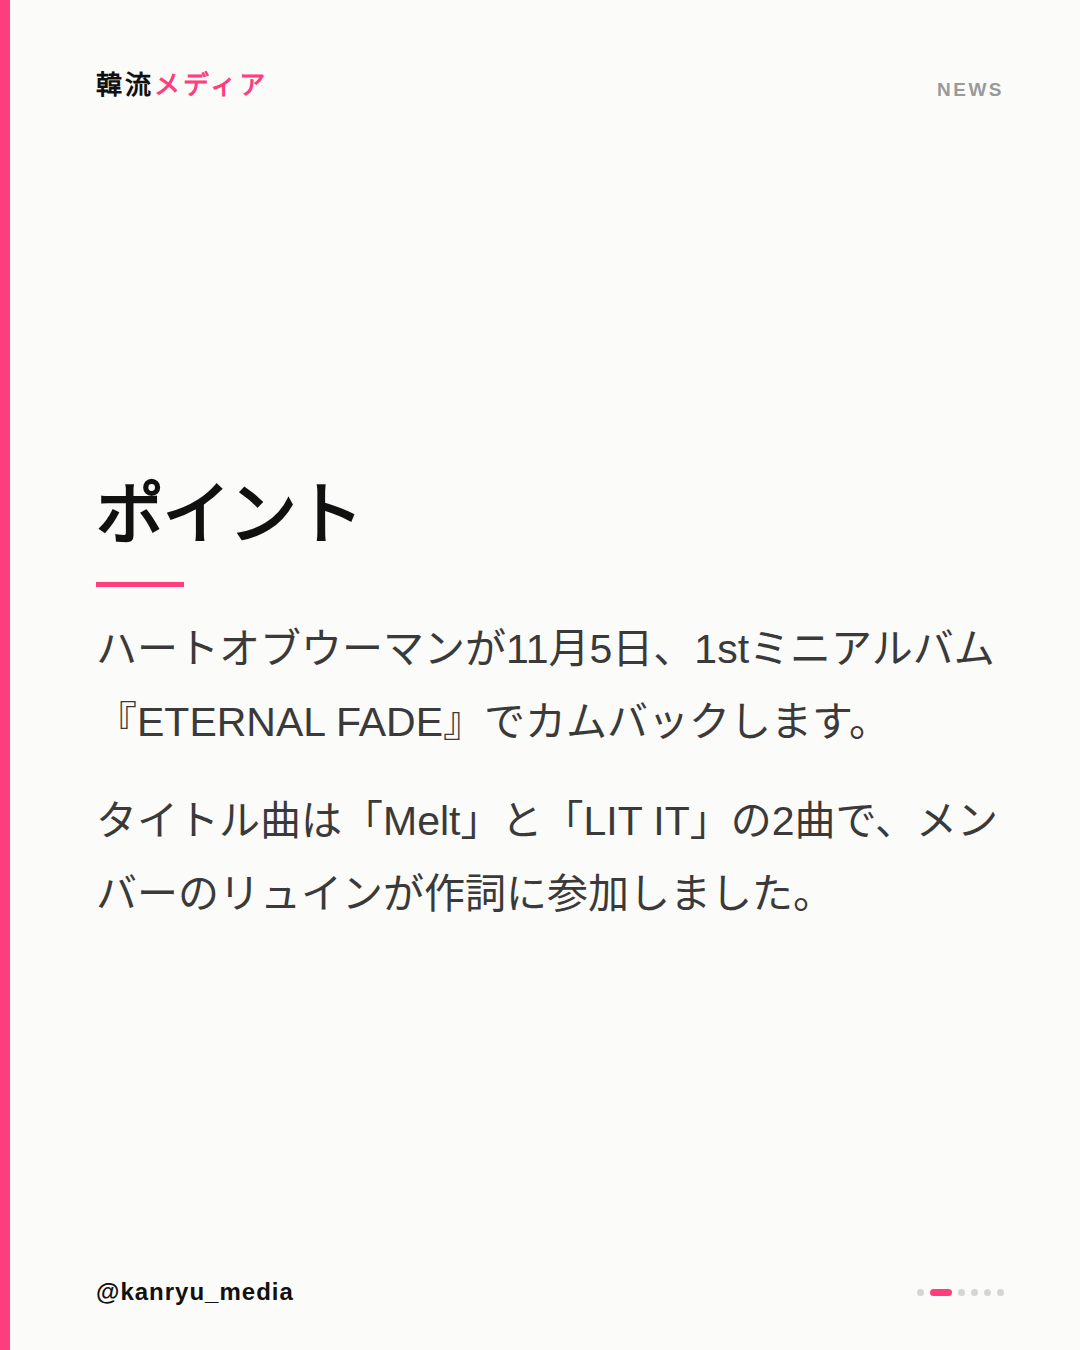
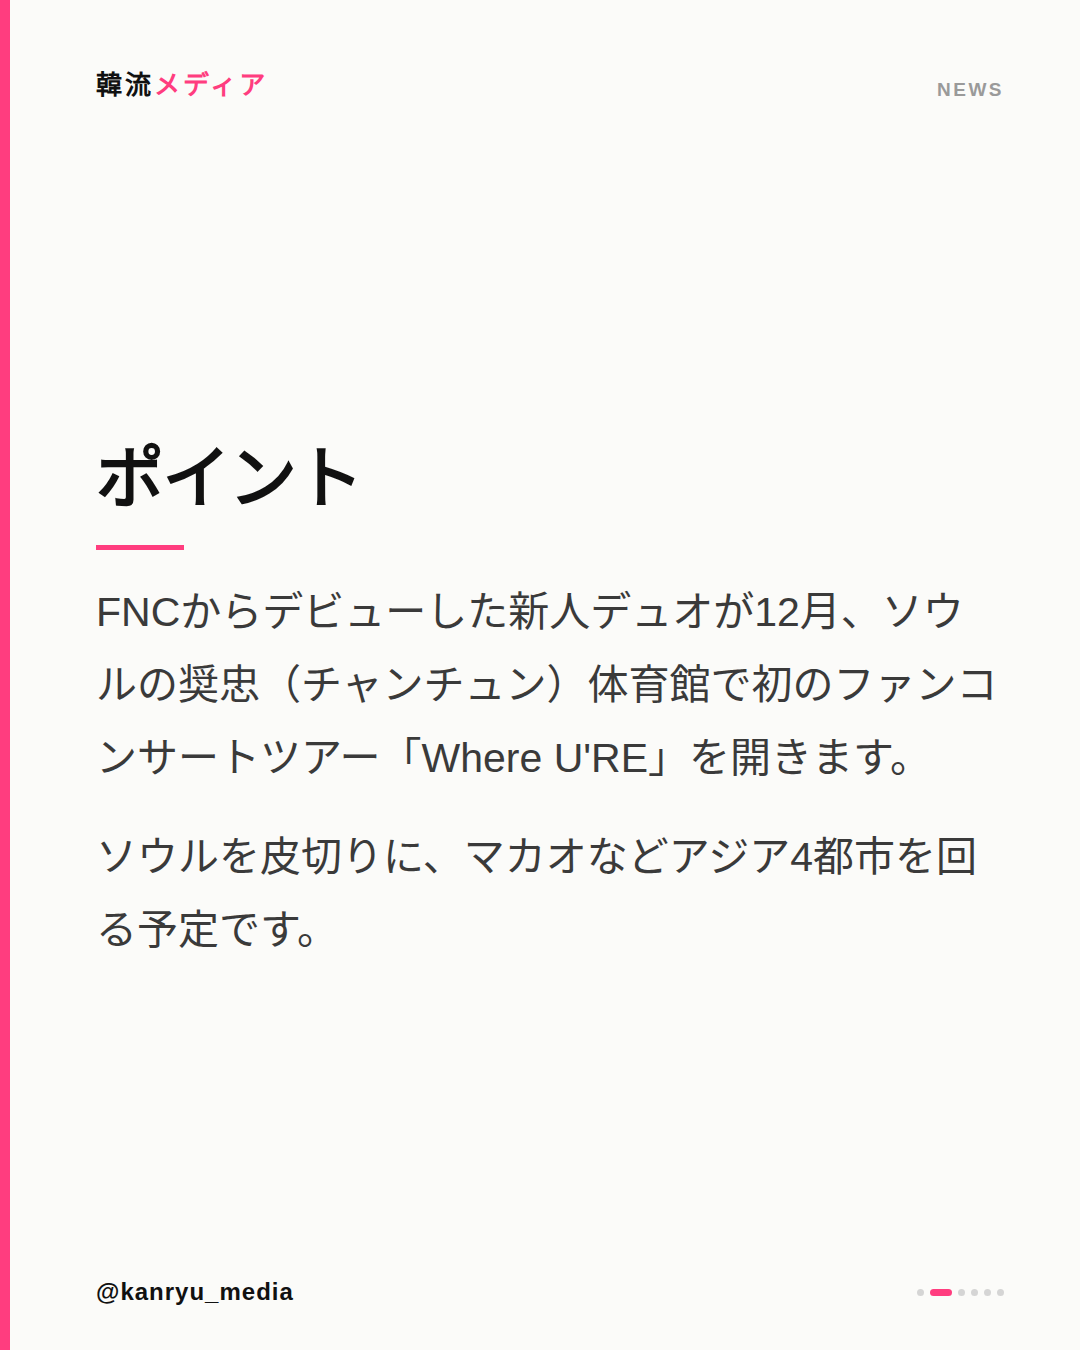
preview: NR036

Changed region(s): [[0.0917, 0.3111, 0.9167, 0.7156]]

diff --git a/README.md b/README.md
@@ -1,5 +1,5 @@
 # 한류미디어 카드 미리보기
 
-최근 카드: NR033
+최근 카드: NR036
 
 ![1](https://raw.githubusercontent.com/jang2269/kanryu-preview/main/card-01.png)
